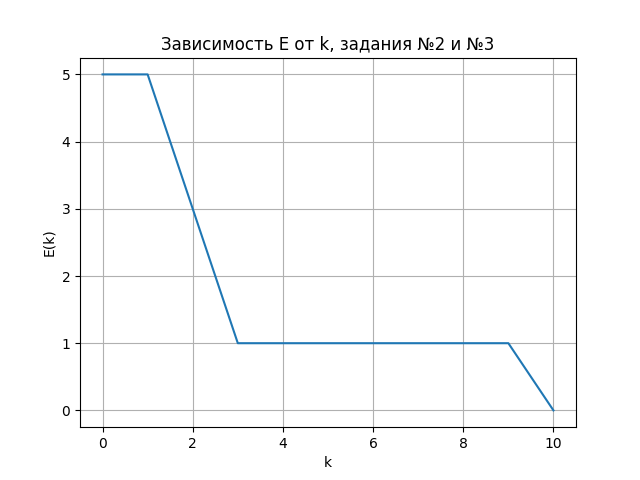
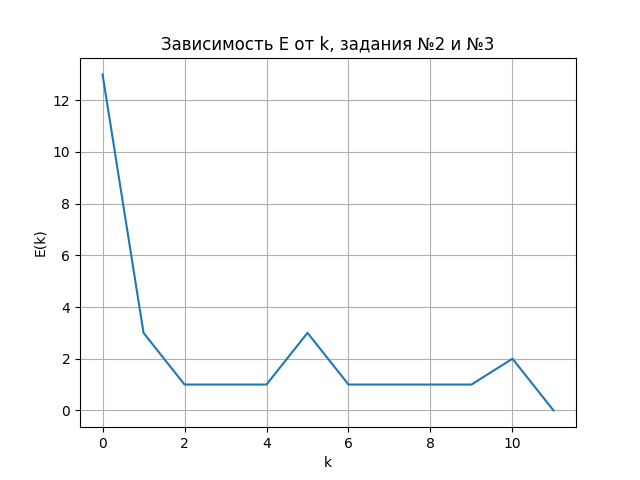
fix

diff --git a/lab1/main.py b/lab1/main.py
@@ -3,13 +3,13 @@ from neuron import NeuronWithUnitStepFunction, NeuroneWithSigmoidActivationFunct
 if __name__ == '__main__':
     print("Вариант №14")
     print("Задание №1 - Обучение с пороговой функцией активации")
-    n = NeuronWithUnitStepFunction([0, 0, 0, 0, 0], 0.3, [0, 0, 0, 1, 0, 1, 0, 1, 1, 1, 1, 1, 1, 1, 1, 1])
+    n = NeuronWithUnitStepFunction([0, 0, 0, 0, 0], 0.3, [0, 0, 0, 0, 1, 0, 0, 0, 1, 0, 0, 0, 1, 0, 0, 0])
     n.train()
     print("-----------------------------------------------------------------------------------------------------------")
     print("Задание №2 - Обучение с сигмоидальной функцией активации")
-    n2 = NeuroneWithSigmoidActivationFunction([0, 0, 0, 0, 0], 0.3, [0, 0, 0, 1, 0, 1, 0, 1, 1, 1, 1, 1, 1, 1, 1, 1])
+    n2 = NeuroneWithSigmoidActivationFunction([0, 0, 0, 0, 0], 0.3, [0, 0, 0, 0, 1, 0, 0, 0, 1, 0, 0, 0, 1, 0, 0, 0])
     n2.train()
     print("-----------------------------------------------------------------------------------------------------------")
     print("Задание №3 - Обучение с сигмоидальной функцией активации и неполной выборкой")
-    n3 = NeuroneWithSigmoidActivationFunction([0, 0, 0, 0, 0], 0.3, [0, 0, 0, 1, 0, 0, 0, 1, 0, 0, 0, 1, 0, 0, 0, 0])
+    n3 = NeuroneWithSigmoidActivationFunction([0, 0, 0, 0, 0], 0.3, [0, 0, 0, 0, 1, 0, 0, 0, 1, 0, 0, 0, 1, 0, 0, 0])
     n3.train_partly()
